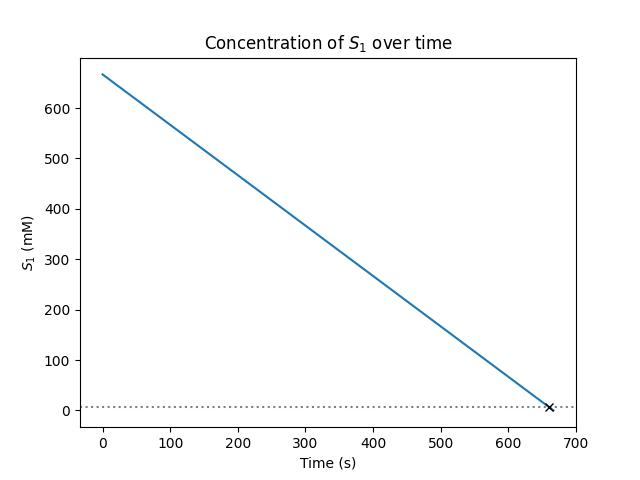
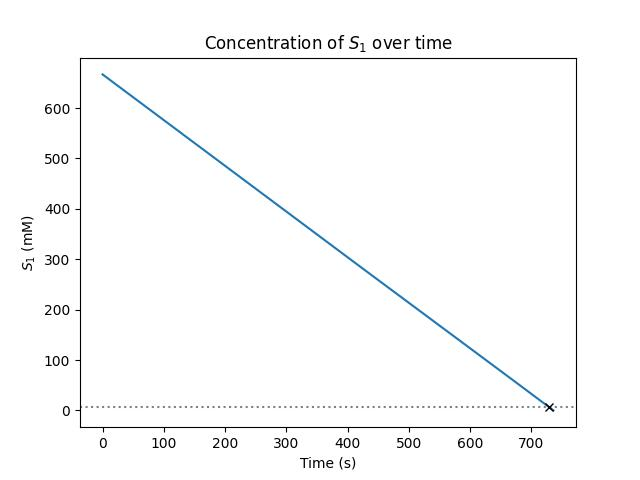
add notes and new code update

diff --git a/assignment1/main.py b/assignment1/main.py
@@ -97,10 +97,10 @@ def reaction_ODE(t, S, Vmax, Km):
     dS/dt = v = -(Vmax * S)/(Km + S)
     """
 
-    return -(Vmax * S*S2) / (Km1*S2 + Km2*S+S*S2)
+    return -(Vmax * S * S2) / (Km1*S2 + Km2*S + S*S2)
 
 
-t_span = (0, 900)
+t_span = (0, 1000)
 t_eval = np.linspace(t_span[0], t_span[1], t_span[1]*10)
 
 sol = solve_ivp(

diff --git a/assignment1/notes.md b/assignment1/notes.md
@@ -1,7 +1,7 @@
 # Notes
 
 ## Equations and Model
-Covers: Derivation of $K_{m2}$ for Question 1, the use of the Lineweaver-Burke plot (from which you can get Km1 and Vmax) for different S2. 
+Covers: Derivation of $K_{m2}$ for Question 1, the use of the Lineweaver-Burke plot (from which you can get Km1 and Vmax) for different S2.
 
 Stoichiometric matrix N, steady state equillibrium.
 
@@ -10,10 +10,15 @@ Stoichiometric matrix N, steady state equillibrium.
 Lineweaver-Burke plot, table with Vmax and Km1 we read from that.
 
 Km2 calculated by equation.
+Km2 = 0.1000 +- 1.122e-11
+
+Linear decrease of concentration over time.
+"It took 728.58 seconds (12.1 minutes) to reach a concentration below 1 g/L."
 
 ## Discussion
 
-Lineweaver-Burke plot: since all lines are parrelel this is a ping pong mechanism.
+Lineweaver-Burke plot: since all lines are parrelel this is a ping pong mechanism. Since they all have the same slope and R^2 of 1 we can say this confidently.
 
 It took 660.29 seconds (11.0 minutes) to reach a concentration below 1 g/L.
 
+Linear line, expected exponential decay. Could be that due to high saturation of S2 we have always v of vmax which means the decay is linear with a rate vmax. This is likely also influenced by the design choice to keep S2 constant.
